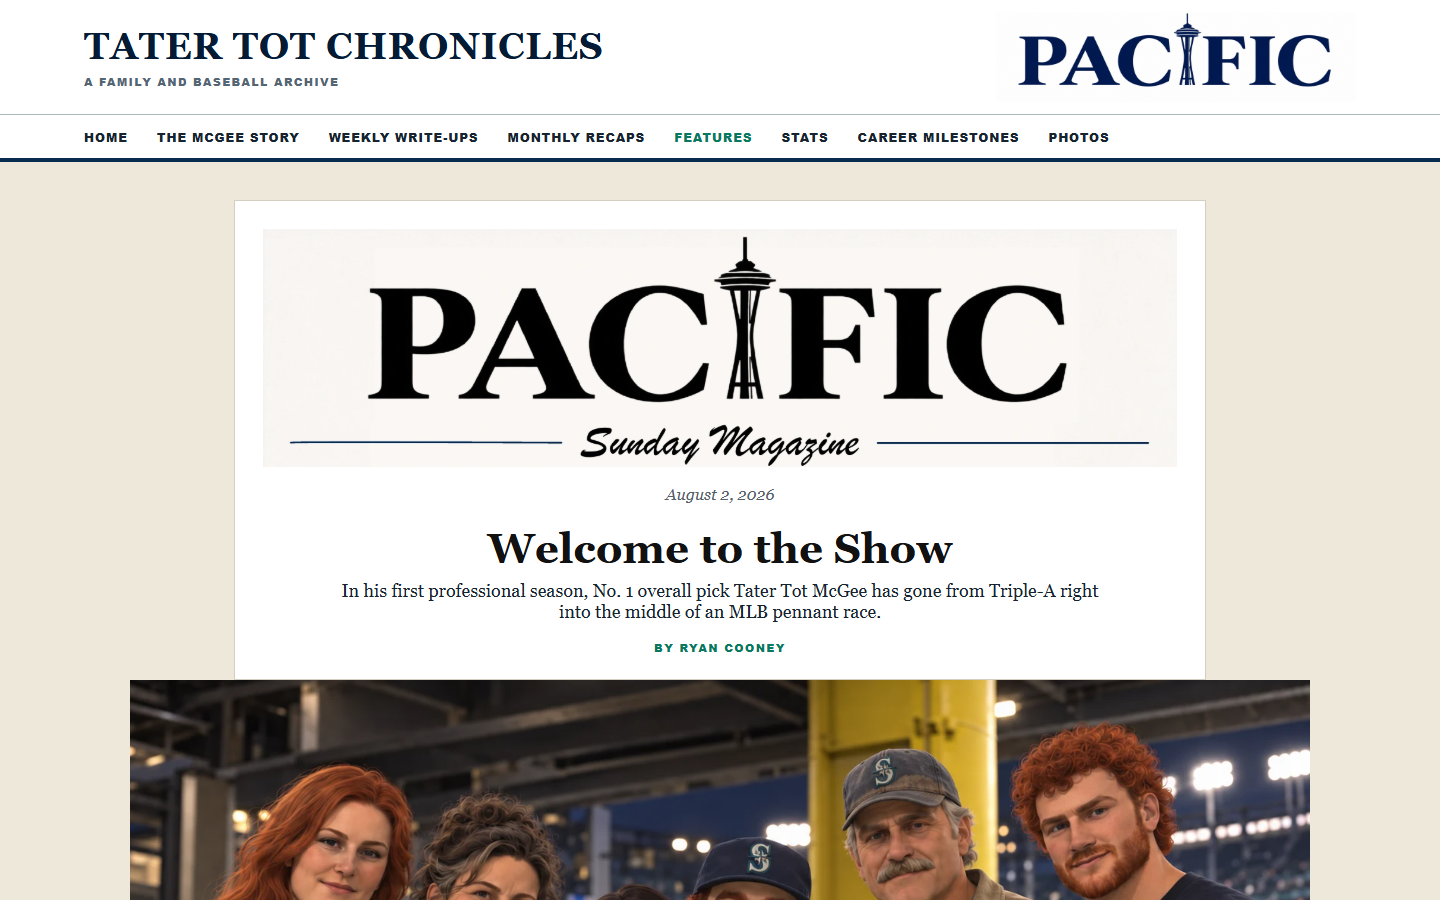
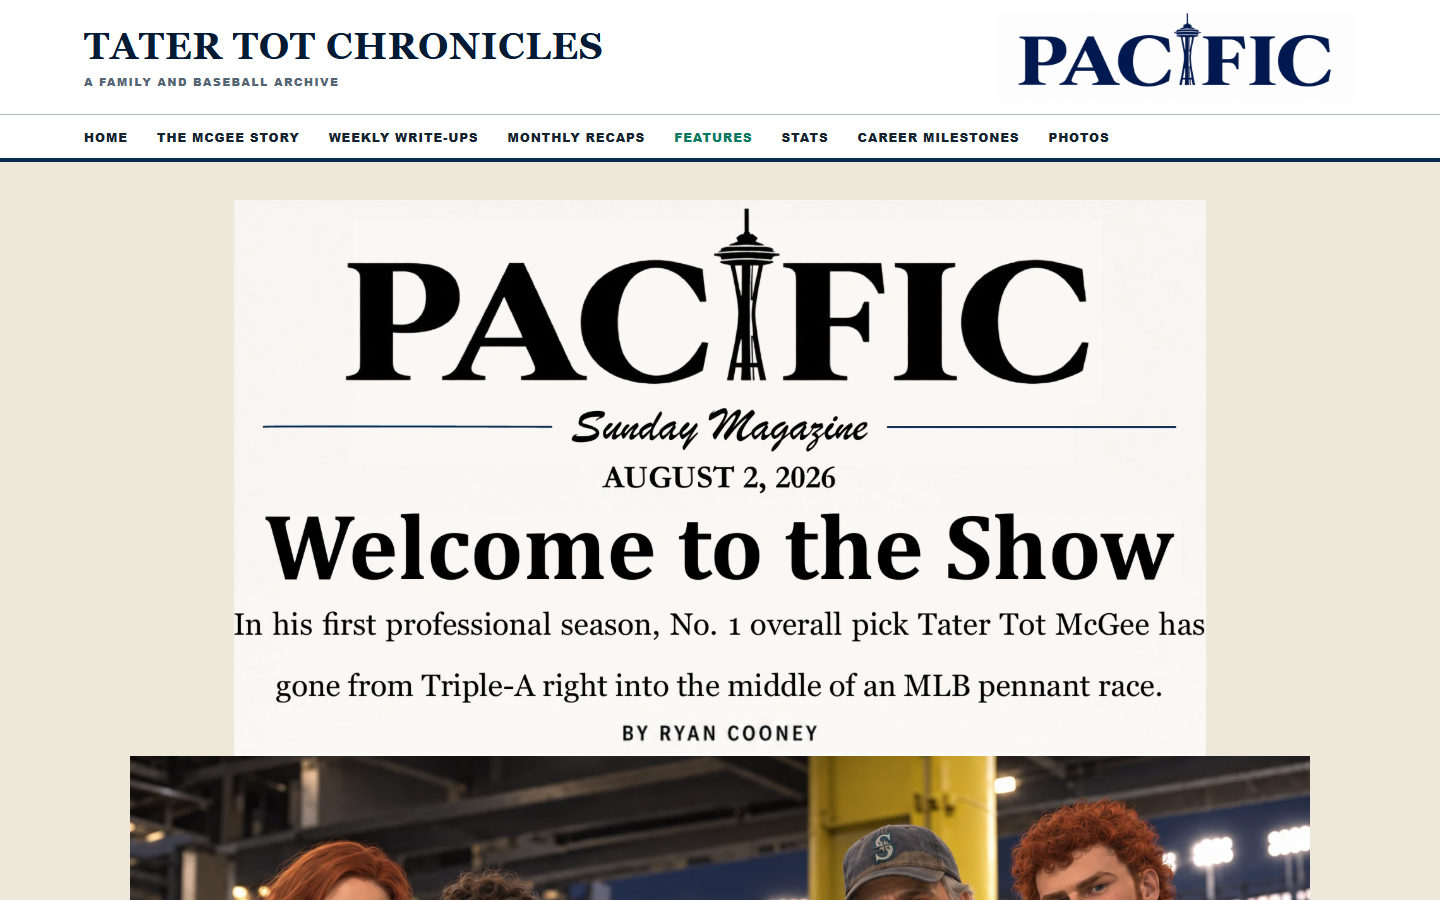
pacific rebrand

Changed region(s): [[0.0625, 0.2178, 0.9375, 1.0]]

diff --git a/call-up.html b/call-up.html
@@ -8,4 +8,4 @@ body{background:#eee8da}
 @media(max-width:700px){.storyhero .cover>div{padding:24px 18px!important}.storyhero h1{font-size:34px!important}.feature-article{padding:28px 20px 48px}}
 </style></head><body>
 <header class="mast"><div class="mastrow"><div><a class="sitebrand" href="index.html">TATER TOT CHRONICLES</a><div class="tag">A family and baseball archive</div></div><a class="pacific-logo-link" href="index.html" aria-label="Tater Tot Chronicles home"><img class="pacific-logo-img" src="assets/pacific-logo.png" alt="PACIFIC"></a></div></header>
-<nav class="nav"><div class="navrow"><a class="" href="index.html">Home</a><a class="" href="mcgee-story.html">The McGee Story</a><a class="" href="archive.html">Weekly Write-Ups</a><a class="" href="recaps.html">Monthly Recaps</a><a class="active" href="features.html" aria-current="page">Features</a><a href="stats.html">Stats</a><a class="" href="career.html">Career Milestones</a><a class="" href="photos.html">Photos</a></div></nav><main><section class="storyhero"><div class="cover"><div style="background:white;border:1px solid #d5cfc1;padding:28px 28px 24px;text-align:center"><img class="feature-masthead" src="assets/callup-masthead.webp" alt="PACIFIC Sunday Magazine" width="1539" height="400" style="display:block;width:100%;max-width:100%;height:auto;border:0;margin:0 auto 18px"><div style="font-family:Georgia,serif;color:#52606a;font-style:italic"><time datetime="2026-08-02">August 2, 2026</time></div><h1 style="font-family:Georgia,serif;color:#111;font-size:42px;margin:20px 0 8px">Welcome to the Show</h1><p style="font-family:Georgia,serif;font-size:18px;margin:0 auto;max-width:760px">In his first professional season, No. 1 overall pick Tater Tot McGee has gone from Triple-A right into the middle of an MLB pennant race.</p><div class="kicker" style="margin-top:18px">By Ryan Cooney</div></div></div><figure class="feature-photo call-up-lead"><a href="assets/call-up-mlb-family.webp"><img src="assets/call-up-mlb-family.webp" alt="McGee with his family and girlfriend after his first big-league game." width="1536" height="1024" fetchpriority="high"></a><figcaption>McGee with his family and girlfriend after his first big-league game.</figcaption></figure></section><article class="feature-article"><p>The last time that I met with Tater Tot McGee, we were on his family&#x27;s 164-year-old potato farm. It was the week before the 2025 MLB Draft, and he had just come off of winning the College World Series with Fresno State. He had been here before, two years earlier in 2023, when he was drafted 27th overall by the New York Yankees.</p><p>A few things were different this time. He was to go toward the top of the first round, he didn’t have college waiting for him, and there was a very good chance that he would be drafted by his beloved Seattle Mariners. This time, everything happened like some surreal dream. Not only was he drafted by the Mariners, but he also went No. 1 overall. Being the No. 1 pick comes with tremendously high expectations.</p><p>Tater’s rapid ascent through Seattle’s farm system has been exceptionally quick, even for someone with No. 1 pick expectations. It started before he took his first pro at-bat. The Mariners raised more than a few eyebrows when they fast-tracked Tater past the lower levels of their system right to Double-A Arkansas. Tater rewarded their trust by playing well enough to get promoted to Triple-A Tacoma on June 9. Starting your career in Double-A is abnormal. Being called up to Triple-A in just two months is unbelievably fast. Making it to the majors in your first year is Rickey Henderson-on-the-basepaths levels of fast. In fact, fewer than 2% of drafted players make the majors in their first year. The last time the Mariners promoted a college position player to the majors this quickly was 13 years ago, when they did it with Mike Zunino in 2013. It seems as if Tater has been able to handle the pressure thus far, but the Show is a whole other story.</p><p>So as he sits on the cusp of achieving another dream, I sit down with Tater once again. We did meet on a farm again, just not his family’s potato farm, but a clubhouse in Arkansas on the Mariners’ farm.</p><figure class="feature-photo"><a href="assets/call-up-fans.webp"><img src="assets/call-up-fans.webp" alt="Soon is now." width="1294" height="728" loading="lazy"></a><figcaption>Soon is now.</figcaption></figure><h2>The call to Seattle</h2><p class="question"><strong>PACIFIC:</strong> What was your initial thought when you were told that you would be called up?</p><p class="answer"><strong>TATER:</strong> At first I thought Coach was joking with me. So everyone in the clubhouse got excited before I did. When it finally hit me, saying I was shocked would be a vast understatement. Then I thought about my parents and how much they have sacrificed to get me to this point.</p><p class="question"><strong>PACIFIC:</strong> Were your parents your first phone call?</p><p class="answer"><strong>TATER:</strong> Oh yeah, I couldn’t get my phone out of my pocket fast enough.</p><p class="question"><strong>PACIFIC:</strong> What happened on the call?</p><p class="answer"><strong>TATER:</strong> Well, in a surprise to no one, they were watching the M’s. I called Mom’s phone, and she put me on speaker for Dad. They were so happy when I told them. When I thanked them for everything they had done for me, all three of us cried.</p><p class="question"><strong>PACIFIC:</strong> Well, I hope the next call was to the girlfriend.</p><p class="answer"><strong>TATER:</strong> (He laughs.) Oh yeah. No chance I was going to get away with calling anybody else first. Plus, my parents had told me that they would tell everybody else for me. The people who know me well knew not to call but to text because I hate the phone. When I woke up, I can’t remember how many notifications I had.</p><p class="question"><strong>PACIFIC:</strong> You went through the minors pretty quick. Do you think you are ready, or do you feel like you need a little more time to get acclimated to being a pro?</p><p class="answer"><strong>TATER:</strong> I don’t think it matters if I think I’m ready. The Mariners think I am, so I must be.</p><p class="question"><strong>PACIFIC:</strong> What did the Mariners say your role would be?</p><p class="answer"><strong>TATER:</strong> They told me that I will be the starting third baseman, which is great, but I’m not stupid. I know that I am joining a team in a pennant race. I know that means I will be on a much shorter leash than I would have been if I were going to a bad team.</p><p class="question"><strong>PACIFIC:</strong> Talking about that pennant race, do you feel any added pressure to produce right away?</p><p class="answer"><strong>TATER:</strong> I know that I am probably supposed to say no, but that would be a lie. I do indeed feel the added pressure. I don’t think that I would be human if I didn’t.</p><p class="question"><strong>PACIFIC:</strong> How do you think you will handle it?</p><p class="answer"><strong>TATER:</strong> I really think that I can. This isn’t the first time in my life that I have felt the added pressure of chasing a championship.</p><p class="question"><strong>PACIFIC:</strong> Coming into a new clubhouse midseason can be pretty intimidating. How do you think you will adjust to that?</p><p class="answer"><strong>TATER:</strong> It isn’t going to be easy. None of this is going to be easy. I may be starting, but I know that I am the low guy on the totem pole.</p><p class="question"><strong>PACIFIC:</strong> How much easier do you think having Brian O’Keefe and Rhylan Thomas already here will make the transition, especially since you played with both of them earlier this season?</p><p class="answer"><strong>TATER:</strong> A lot of people would think, “How much could you have bonded with someone that you have played with for a few months?” Being in the minors and riding those buses give you ample time to bond. Having them there has already eased my anxiety a little bit. I know that not only do I have two guys to talk to, but they are also in my same situation. They really are great people.</p><p class="question"><strong>PACIFIC:</strong> That’s great. You already pointed out the pennant race. Have you been keeping close tabs on the big club this year?</p><p class="answer"><strong>TATER:</strong> We are all obviously aware of where they are in the standings. That is about it, though. I have been so focused on playing every day that I haven’t really had the time to check on them daily. I know that my family will be shocked to hear this. I haven’t watched one full game this year.</p><p class="question"><strong>PACIFIC:</strong> How many people are going to make it to your debut, and how has the ticket situation been?</p><p class="answer"><strong>TATER:</strong> Since I am debuting on the road in Arlington at the last minute, it will be just the close family and my girlfriend.</p><p class="question"><strong>PACIFIC:</strong> You had a few people come out to your first game in Tacoma, which makes sense since you spent your summers there. Are you expecting the same thing in Seattle?</p><p class="answer"><strong>TATER:</strong> Ummm, I feel like the Seattle turnout will be significantly bigger. The fact that I will be on the road first will give everyone more time to get everything together. My mom has been handling that kind of stuff since my travel ball days. She is great with all of it. I guarantee that she has already contacted the organization asking about tickets. She is a machine.</p><p class="question"><strong>PACIFIC:</strong> Before I go, I have to ask you about the now-infamous hat. Your dad’s old beat-up Mariners cap.</p><p class="answer"><strong>TATER:</strong> (Laughs.) I guess the legend of that hat is out there now. There is no way he will dump it. We have bought him new hats for Father’s Day, his birthday, and Christmas. To be nice, he will wear it for a day or two, but the old one inevitably ends up back on his head. Mom hates it. She has tried hiding it before, and there it is again. At this point, we have stopped even trying. He is going to be buried in it at this point.</p><figure class="feature-photo"><a href="assets/call-up-aa-family.webp"><img src="assets/call-up-aa-family.webp" alt="Tater Tot McGee with his family and girlfriend after his first Double-A game." width="1536" height="1024" loading="lazy"></a><figcaption>Tater Tot McGee with his family and girlfriend after his first Double-A game.</figcaption></figure><p>Tater is going to be tested right away. The first four pitchers he will face are future Hall of Famer Jacob deGrom and the Dodgers trio of Yamamoto, Snell and Glasnow. The Dodgers trio is a combined 32-7, with ERAs of 3.50, 3.50 and 2.60, respectively. I hope Tater can swim, because he is about to enter a deep end full of sharks.</p><figure class="feature-photo"><a href="assets/call-up-tacoma-family.webp"><img src="assets/call-up-tacoma-family.webp" alt="The Tacoma limb of the family tree and Dad in his hat." width="1536" height="1024" loading="lazy"></a><figcaption>The Tacoma limb of the family tree and Dad in his hat.</figcaption></figure><p class="pdf-link"><a class="btn ghost" href="assets/23Call%20up%20feature.pdf">Open Original Magazine · PDF</a></p><p class="source-note">Web edition of the August 2, 2026 PACIFIC feature. Story and captions reproduced from the original magazine.</p><a class="btn" href="features.html">All features →</a></article></main><footer><div class="footrow"><div><strong>Tater Tot Chronicles / PACIFIC</strong><p>Following Tater Tot McGee from family history through professional baseball.</p></div><div class="disclaimer">Tater Tot Chronicles is a fictional fan-created baseball project and is not affiliated with The Seattle Times, Seattle Mariners, MLB or Minor League Baseball.</div></div></footer><script src="site.js"></script></body></html>
+<nav class="nav"><div class="navrow"><a class="" href="index.html">Home</a><a class="" href="mcgee-story.html">The McGee Story</a><a class="" href="archive.html">Weekly Write-Ups</a><a class="" href="recaps.html">Monthly Recaps</a><a class="active" href="features.html" aria-current="page">Features</a><a href="stats.html">Stats</a><a class="" href="career.html">Career Milestones</a><a class="" href="photos.html">Photos</a></div></nav><main><section class="storyhero"><div class="cover"><h1 style="margin:0;font-size:inherit"><img src="assets/callup-full-masthead.webp" alt="PACIFIC Sunday Magazine · August 2, 2026. Welcome to the Show. In his first professional season, No. 1 overall pick Tater Tot McGee has gone from Triple-A right into the middle of an MLB pennant race. By Ryan Cooney." width="1539" height="880" fetchpriority="high" style="display:block;width:100%;height:auto;border:0"></h1></div><figure class="feature-photo call-up-lead"><a href="assets/call-up-mlb-family.webp"><img src="assets/call-up-mlb-family.webp" alt="McGee with his family and girlfriend after his first big-league game." width="1536" height="1024" fetchpriority="high"></a><figcaption>McGee with his family and girlfriend after his first big-league game.</figcaption></figure></section><article class="feature-article"><p>The last time that I met with Tater Tot McGee, we were on his family&#x27;s 164-year-old potato farm. It was the week before the 2025 MLB Draft, and he had just come off of winning the College World Series with Fresno State. He had been here before, two years earlier in 2023, when he was drafted 27th overall by the New York Yankees.</p><p>A few things were different this time. He was to go toward the top of the first round, he didn’t have college waiting for him, and there was a very good chance that he would be drafted by his beloved Seattle Mariners. This time, everything happened like some surreal dream. Not only was he drafted by the Mariners, but he also went No. 1 overall. Being the No. 1 pick comes with tremendously high expectations.</p><p>Tater’s rapid ascent through Seattle’s farm system has been exceptionally quick, even for someone with No. 1 pick expectations. It started before he took his first pro at-bat. The Mariners raised more than a few eyebrows when they fast-tracked Tater past the lower levels of their system right to Double-A Arkansas. Tater rewarded their trust by playing well enough to get promoted to Triple-A Tacoma on June 9. Starting your career in Double-A is abnormal. Being called up to Triple-A in just two months is unbelievably fast. Making it to the majors in your first year is Rickey Henderson-on-the-basepaths levels of fast. In fact, fewer than 2% of drafted players make the majors in their first year. The last time the Mariners promoted a college position player to the majors this quickly was 13 years ago, when they did it with Mike Zunino in 2013. It seems as if Tater has been able to handle the pressure thus far, but the Show is a whole other story.</p><p>So as he sits on the cusp of achieving another dream, I sit down with Tater once again. We did meet on a farm again, just not his family’s potato farm, but a clubhouse in Arkansas on the Mariners’ farm.</p><figure class="feature-photo"><a href="assets/call-up-fans.webp"><img src="assets/call-up-fans.webp" alt="Soon is now." width="1294" height="728" loading="lazy"></a><figcaption>Soon is now.</figcaption></figure><h2>The call to Seattle</h2><p class="question"><strong>PACIFIC:</strong> What was your initial thought when you were told that you would be called up?</p><p class="answer"><strong>TATER:</strong> At first I thought Coach was joking with me. So everyone in the clubhouse got excited before I did. When it finally hit me, saying I was shocked would be a vast understatement. Then I thought about my parents and how much they have sacrificed to get me to this point.</p><p class="question"><strong>PACIFIC:</strong> Were your parents your first phone call?</p><p class="answer"><strong>TATER:</strong> Oh yeah, I couldn’t get my phone out of my pocket fast enough.</p><p class="question"><strong>PACIFIC:</strong> What happened on the call?</p><p class="answer"><strong>TATER:</strong> Well, in a surprise to no one, they were watching the M’s. I called Mom’s phone, and she put me on speaker for Dad. They were so happy when I told them. When I thanked them for everything they had done for me, all three of us cried.</p><p class="question"><strong>PACIFIC:</strong> Well, I hope the next call was to the girlfriend.</p><p class="answer"><strong>TATER:</strong> (He laughs.) Oh yeah. No chance I was going to get away with calling anybody else first. Plus, my parents had told me that they would tell everybody else for me. The people who know me well knew not to call but to text because I hate the phone. When I woke up, I can’t remember how many notifications I had.</p><p class="question"><strong>PACIFIC:</strong> You went through the minors pretty quick. Do you think you are ready, or do you feel like you need a little more time to get acclimated to being a pro?</p><p class="answer"><strong>TATER:</strong> I don’t think it matters if I think I’m ready. The Mariners think I am, so I must be.</p><p class="question"><strong>PACIFIC:</strong> What did the Mariners say your role would be?</p><p class="answer"><strong>TATER:</strong> They told me that I will be the starting third baseman, which is great, but I’m not stupid. I know that I am joining a team in a pennant race. I know that means I will be on a much shorter leash than I would have been if I were going to a bad team.</p><p class="question"><strong>PACIFIC:</strong> Talking about that pennant race, do you feel any added pressure to produce right away?</p><p class="answer"><strong>TATER:</strong> I know that I am probably supposed to say no, but that would be a lie. I do indeed feel the added pressure. I don’t think that I would be human if I didn’t.</p><p class="question"><strong>PACIFIC:</strong> How do you think you will handle it?</p><p class="answer"><strong>TATER:</strong> I really think that I can. This isn’t the first time in my life that I have felt the added pressure of chasing a championship.</p><p class="question"><strong>PACIFIC:</strong> Coming into a new clubhouse midseason can be pretty intimidating. How do you think you will adjust to that?</p><p class="answer"><strong>TATER:</strong> It isn’t going to be easy. None of this is going to be easy. I may be starting, but I know that I am the low guy on the totem pole.</p><p class="question"><strong>PACIFIC:</strong> How much easier do you think having Brian O’Keefe and Rhylan Thomas already here will make the transition, especially since you played with both of them earlier this season?</p><p class="answer"><strong>TATER:</strong> A lot of people would think, “How much could you have bonded with someone that you have played with for a few months?” Being in the minors and riding those buses give you ample time to bond. Having them there has already eased my anxiety a little bit. I know that not only do I have two guys to talk to, but they are also in my same situation. They really are great people.</p><p class="question"><strong>PACIFIC:</strong> That’s great. You already pointed out the pennant race. Have you been keeping close tabs on the big club this year?</p><p class="answer"><strong>TATER:</strong> We are all obviously aware of where they are in the standings. That is about it, though. I have been so focused on playing every day that I haven’t really had the time to check on them daily. I know that my family will be shocked to hear this. I haven’t watched one full game this year.</p><p class="question"><strong>PACIFIC:</strong> How many people are going to make it to your debut, and how has the ticket situation been?</p><p class="answer"><strong>TATER:</strong> Since I am debuting on the road in Arlington at the last minute, it will be just the close family and my girlfriend.</p><p class="question"><strong>PACIFIC:</strong> You had a few people come out to your first game in Tacoma, which makes sense since you spent your summers there. Are you expecting the same thing in Seattle?</p><p class="answer"><strong>TATER:</strong> Ummm, I feel like the Seattle turnout will be significantly bigger. The fact that I will be on the road first will give everyone more time to get everything together. My mom has been handling that kind of stuff since my travel ball days. She is great with all of it. I guarantee that she has already contacted the organization asking about tickets. She is a machine.</p><p class="question"><strong>PACIFIC:</strong> Before I go, I have to ask you about the now-infamous hat. Your dad’s old beat-up Mariners cap.</p><p class="answer"><strong>TATER:</strong> (Laughs.) I guess the legend of that hat is out there now. There is no way he will dump it. We have bought him new hats for Father’s Day, his birthday, and Christmas. To be nice, he will wear it for a day or two, but the old one inevitably ends up back on his head. Mom hates it. She has tried hiding it before, and there it is again. At this point, we have stopped even trying. He is going to be buried in it at this point.</p><figure class="feature-photo"><a href="assets/call-up-aa-family.webp"><img src="assets/call-up-aa-family.webp" alt="Tater Tot McGee with his family and girlfriend after his first Double-A game." width="1536" height="1024" loading="lazy"></a><figcaption>Tater Tot McGee with his family and girlfriend after his first Double-A game.</figcaption></figure><p>Tater is going to be tested right away. The first four pitchers he will face are future Hall of Famer Jacob deGrom and the Dodgers trio of Yamamoto, Snell and Glasnow. The Dodgers trio is a combined 32-7, with ERAs of 3.50, 3.50 and 2.60, respectively. I hope Tater can swim, because he is about to enter a deep end full of sharks.</p><figure class="feature-photo"><a href="assets/call-up-tacoma-family.webp"><img src="assets/call-up-tacoma-family.webp" alt="The Tacoma limb of the family tree and Dad in his hat." width="1536" height="1024" loading="lazy"></a><figcaption>The Tacoma limb of the family tree and Dad in his hat.</figcaption></figure><p class="pdf-link"><a class="btn ghost" href="assets/23Call%20up%20feature.pdf">Open Original Magazine · PDF</a></p><p class="source-note">Web edition of the August 2, 2026 PACIFIC feature. Story and captions reproduced from the original magazine.</p><a class="btn" href="features.html">All features →</a></article></main><footer><div class="footrow"><div><strong>Tater Tot Chronicles / PACIFIC</strong><p>Following Tater Tot McGee from family history through professional baseball.</p></div><div class="disclaimer">Tater Tot Chronicles is a fictional fan-created baseball project and is not affiliated with The Seattle Times, Seattle Mariners, MLB or Minor League Baseball.</div></div></footer><script src="site.js"></script></body></html>
